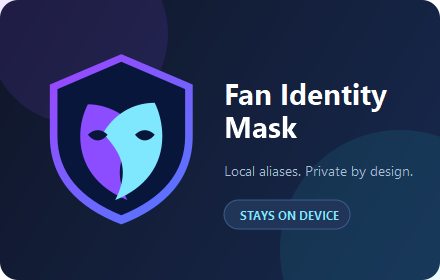
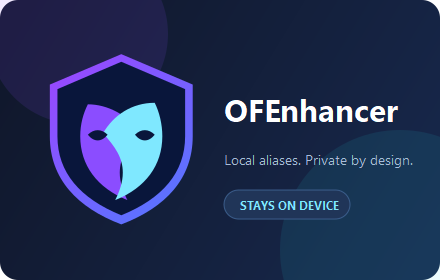
Rename product to OFEnhancer

Changed region(s): [[0.5023, 0.2857, 0.9159, 0.5143], [0.5023, 0.6571, 0.7977, 0.8286], [0.5023, 0.5429, 0.9455, 0.6286]]

diff --git a/docs/privacy.html b/docs/privacy.html
@@ -3,7 +3,7 @@
   <head>
     <meta charset="utf-8">
     <meta name="viewport" content="width=device-width,initial-scale=1">
-    <title>Fan Identity Mask privacy policy</title>
+    <title>OFEnhancer privacy policy</title>
     <style>
       :root { color-scheme: dark; font-family: Inter, ui-sans-serif, system-ui, sans-serif; }
       body { background: #101621; color: #edf4fa; margin: 0; }
@@ -17,9 +17,9 @@
   </head>
   <body>
     <main>
-      <h1>Fan Identity Mask privacy policy</h1>
+      <h1>OFEnhancer privacy policy</h1>
       <p class="updated">Last updated: July 26, 2026</p>
-      <p>Fan Identity Mask has one purpose: to pseudonymize fan identities in supported OnlyFans creator views inside the user's local browser display.</p>
+      <p>OFEnhancer has one purpose: to pseudonymize fan identities in supported OnlyFans creator views inside the user's local browser display.</p>
       <h2>Data processed locally</h2>
       <p>After the user reviews the in-extension disclosure and affirmatively enables masking, the extension may read and process:</p>
       <ul>
@@ -34,7 +34,7 @@
       <p>It does not read or store message bodies, send messages, automate account actions, scrape pages for export, download media, or change data on OnlyFans.</p>
       <h2>Sharing and sale</h2>
       <p>The extension does not sell, share, rent, or use user data for advertising, creditworthiness, profiling, or any unrelated purpose. No human can access the locally processed data through the extension.</p>
-      <p>Fan Identity Mask's use of information complies with the Chrome Web Store User Data Policy, including the Limited Use requirements.</p>
+      <p>OFEnhancer's use of information complies with the Chrome Web Store User Data Policy, including the Limited Use requirements.</p>
       <h2>Retention and deletion</h2>
       <p>Mappings and settings remain locally until the user resets them, clears extension storage, or uninstalls. Imported avatars remain until the user clears the image pack, clears extension storage, or uninstalls.</p>
       <h2>Security</h2>

diff --git a/store/privacy.html b/store/privacy.html
@@ -3,7 +3,7 @@
   <head>
     <meta charset="utf-8">
     <meta name="viewport" content="width=device-width,initial-scale=1">
-    <title>Fan Identity Mask privacy policy</title>
+    <title>OFEnhancer privacy policy</title>
     <style>
       :root { color-scheme: dark; font-family: Inter, ui-sans-serif, system-ui, sans-serif; }
       body { background: #101621; color: #edf4fa; margin: 0; }
@@ -17,10 +17,10 @@
   </head>
   <body>
     <main>
-      <h1>Fan Identity Mask privacy policy</h1>
+      <h1>OFEnhancer privacy policy</h1>
       <p class="updated">Last updated: July 26, 2026</p>
       <p>
-        Fan Identity Mask has one purpose: to pseudonymize fan identities in
+        OFEnhancer has one purpose: to pseudonymize fan identities in
         supported OnlyFans creator views inside the user's local browser display.
       </p>
 
@@ -60,7 +60,7 @@
         human can access the locally processed data through the extension.
       </p>
       <p>
-        Fan Identity Mask's use of information complies with the Chrome Web Store
+        OFEnhancer's use of information complies with the Chrome Web Store
         User Data Policy, including the Limited Use requirements.
       </p>
 

diff --git a/content.js b/content.js
@@ -93,7 +93,7 @@
         core.maskContext(context, cachedIdentity(context));
       }
     } catch (error) {
-      console.warn("[Fan Identity Mask]", error);
+      console.warn("[OFEnhancer]", error);
     } finally {
       scanning = false;
       if (rescanRequested) {
@@ -171,7 +171,7 @@
       }
     } catch (error) {
       finishFailedRotation(keys, error.message);
-      console.warn("[Fan Identity Mask] Could not change avatar.", error);
+      console.warn("[OFEnhancer] Could not change avatar.", error);
     }
   }
 
@@ -180,7 +180,7 @@
     try {
       await loadSettings();
     } catch (error) {
-      console.warn("[Fan Identity Mask] Could not load settings.", error);
+      console.warn("[OFEnhancer] Could not load settings.", error);
     }
 
     if (!settings.enabled) {

diff --git a/store/content.js b/store/content.js
@@ -94,7 +94,7 @@
         core.maskContext(context, cachedIdentity(context));
       }
     } catch (error) {
-      console.warn("[Fan Identity Mask]", error);
+      console.warn("[OFEnhancer]", error);
     } finally {
       scanning = false;
       if (rescanRequested) {
@@ -172,7 +172,7 @@
       }
     } catch (error) {
       finishFailedRotation(keys, error.message);
-      console.warn("[Fan Identity Mask] Could not change avatar.", error);
+      console.warn("[OFEnhancer] Could not change avatar.", error);
     }
   }
 
@@ -181,7 +181,7 @@
     try {
       await loadSettings();
     } catch (error) {
-      console.warn("[Fan Identity Mask] Could not load settings.", error);
+      console.warn("[OFEnhancer] Could not load settings.", error);
     }
 
     if (!settings.enabled) {

diff --git a/docs/index.html b/docs/index.html
@@ -3,7 +3,7 @@
   <head>
     <meta charset="utf-8">
     <meta name="viewport" content="width=device-width,initial-scale=1">
-    <title>Fan Identity Mask</title>
+    <title>OFEnhancer</title>
     <style>
       :root { color-scheme: dark; font-family: Inter, ui-sans-serif, system-ui, sans-serif; }
       body { background: #101621; color: #edf4fa; margin: 0; }
@@ -17,7 +17,7 @@
   <body>
     <main>
       <p class="pill">Local identity privacy</p>
-      <h1>Fan Identity Mask</h1>
+      <h1>OFEnhancer</h1>
       <p>
         A local Chrome extension that replaces visible fan names and avatars
         with persistent aliases on supported OnlyFans creator views. It does not

diff --git a/store/options.html b/store/options.html
@@ -3,14 +3,14 @@
   <head>
     <meta charset="utf-8">
     <meta name="viewport" content="width=device-width,initial-scale=1">
-    <title>Fan Identity Mask settings</title>
+    <title>OFEnhancer settings</title>
     <link rel="stylesheet" href="options.css">
   </head>
   <body>
     <main>
       <header>
         <p class="eyebrow">Local privacy layer</p>
-        <h1>Fan Identity Mask</h1>
+        <h1>OFEnhancer</h1>
         <p class="lede">
           Replace fan identities on your screen without changing accounts,
           sending messages, or transmitting fan information to the developer.

diff --git a/options.html b/options.html
@@ -3,14 +3,14 @@
   <head>
     <meta charset="utf-8">
     <meta name="viewport" content="width=device-width,initial-scale=1">
-    <title>Fan Identity Mask settings</title>
+    <title>OFEnhancer settings</title>
     <link rel="stylesheet" href="options.css">
   </head>
   <body>
     <main>
       <header>
         <p class="eyebrow">Local privacy layer</p>
-        <h1>Fan Identity Mask</h1>
+        <h1>OFEnhancer</h1>
         <p class="lede">
           Replace fan identities on your screen without changing anything on
           OnlyFans or sending fan information to another service.

diff --git a/popup.html b/popup.html
@@ -3,7 +3,7 @@
   <head>
     <meta charset="utf-8">
     <meta name="viewport" content="width=device-width,initial-scale=1">
-    <title>Fan Identity Mask</title>
+    <title>OFEnhancer</title>
     <link rel="stylesheet" href="popup.css">
   </head>
   <body>

diff --git a/store/popup.html b/store/popup.html
@@ -3,7 +3,7 @@
   <head>
     <meta charset="utf-8">
     <meta name="viewport" content="width=device-width,initial-scale=1">
-    <title>Fan Identity Mask</title>
+    <title>OFEnhancer</title>
     <link rel="stylesheet" href="popup.css">
   </head>
   <body>

diff --git a/store/PRIVACY.md b/store/PRIVACY.md
@@ -1,8 +1,8 @@
-# Fan Identity Mask privacy policy
+# OFEnhancer privacy policy
 
 Last updated: July 26, 2026
 
-Fan Identity Mask has one purpose: to pseudonymize fan identities in supported
+OFEnhancer has one purpose: to pseudonymize fan identities in supported
 OnlyFans creator views inside the user's local browser display.
 
 ## Data processed locally
@@ -37,7 +37,7 @@ The extension does not sell, share, rent, or use user data for advertising,
 creditworthiness, profiling, or any purpose unrelated to its single purpose.
 No human can access the locally processed data through the extension.
 
-Fan Identity Mask's use of information complies with the Chrome Web Store User
+OFEnhancer's use of information complies with the Chrome Web Store User
 Data Policy, including the Limited Use requirements.
 
 ## Retention and deletion

diff --git a/store-listing/listing.md b/store-listing/listing.md
@@ -2,7 +2,7 @@
 
 ## Product name
 
-Fan Identity Mask
+OFEnhancer
 
 ## Summary
 
@@ -11,7 +11,7 @@ OnlyFans creator views.
 
 ## Detailed description
 
-Fan Identity Mask gives creators a consistent, private display layer for fan
+OFEnhancer gives creators a consistent, private display layer for fan
 identities.
 
 When enabled, the extension replaces visible fan names, handles, and profile
@@ -28,7 +28,7 @@ Key features:
 - A protected list of creator handles that must never be masked
 - No analytics, advertising, telemetry, or developer server
 
-Fan Identity Mask changes only the local browser display. It does not change
+OFEnhancer changes only the local browser display. It does not change
 OnlyFans data, read or store message bodies, send messages, scrape pages for
 export, download media, or automate account actions.
 

diff --git a/PRIVACY.md b/PRIVACY.md
@@ -2,7 +2,7 @@
 
 Last updated: July 23, 2026
 
-Fan Identity Mask processes webpage content only to replace fan names and
+OFEnhancer processes webpage content only to replace fan names and
 profile pictures in the user’s local browser display.
 
 ## Data processed and stored locally
@@ -19,7 +19,7 @@ The extension may read and locally store:
 - Extension settings, including handles that should never be masked
 - A numeric Gelbooru API user ID and API key if the user enables that optional mode
 
-This information is stored in Chrome local extension storage. Fan Identity Mask
+This information is stored in Chrome local extension storage. OFEnhancer
 does not operate a developer server, analytics service, advertising service, or
 telemetry endpoint, and the developer does not receive this information.
 
